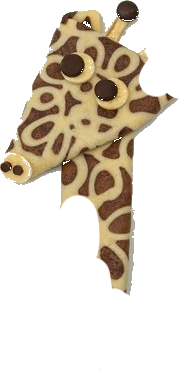
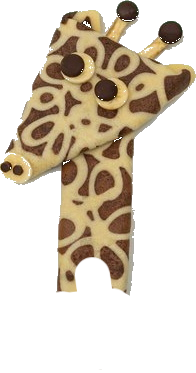
job done

Changed region(s): [[0.2755, 0.5013, 0.5204, 0.7962], [0.7041, 0.059, 1.0, 0.2654]]

diff --git a/pages/servant.html b/pages/servant.html
@@ -7,28 +7,46 @@
 		<title>Document</title>
 	</head>
 	<body class="center">
-		<img src="../img/crepe.png" alt="" id="krep" />
+		<img src="../img/crepe1.png" alt="" id="krep" />
 	</body>
-
 	<script src="https://cdn.socket.io/4.7.5/socket.io.min.js"></script>
-	<script>
-		const socket = io();
-		let img = document.getElementById("krep");
-		let crepeLeft = 10;
-		let crepeStatus = 1;
+<script>
+	const socket = io();
+	let img = document.getElementById("krep");
+	let crepeStatus = 1;
+	let crepeGiraffeProba = false;
 
-		const urlParams = new URLSearchParams(window.location.search);
-		const name = urlParams.get("name");
-		socket.emit("playerName", name);
+	const urlParams = new URLSearchParams(window.location.search);
+	const name = urlParams.get("name");
+	socket.emit("playerName", name);
 
-		document.addEventListener("click", function (e) {
-			console.log("test");
-			const randomSign = () => Math.sign(Math.random() - 0.5);
-			let randAngle = Math.floor(Math.random() * 10) * randomSign(); // random degrees
+	function setup(){
 
-			let randPosX = Math.random() * 2 * randomSign();
-			let randPosY = Math.random() * 2 * randomSign();
-			img.style.transform = "rotate(" + randAngle + "deg) translate(" + randPosX + "%, " + randPosY + "%)";
-		});
-	</script>
+	}
+
+	function click() {
+		crepeStatus++;
+		console.log('crepeStatus');
+
+		if (crepeStatus > 4) {
+			crepeStatus = 1;
+			crepeGiraffeProba = Math.random() < 1 / 8;
+		}
+
+		img.src = crepeGiraffeProba
+			? "../img/crepegiraffe" + crepeStatus + ".png"
+			: "../img/crepe" + crepeStatus + ".png";
+			console.log(img.src);
+
+		const randomSign = () => (Math.random() < 0.5 ? -1 : 1);
+		const randAngle = Math.floor(Math.random() * 10) * randomSign();
+		const randPosX = Math.random() * 2 * randomSign();
+		const randPosY = Math.random() * 2 * randomSign();
+
+		img.style.transform =
+			`rotate(${randAngle}deg) translate(${randPosX}%, ${randPosY}%)`;
+	}
+
+	document.addEventListener("click", click);
+</script>
 </html>
